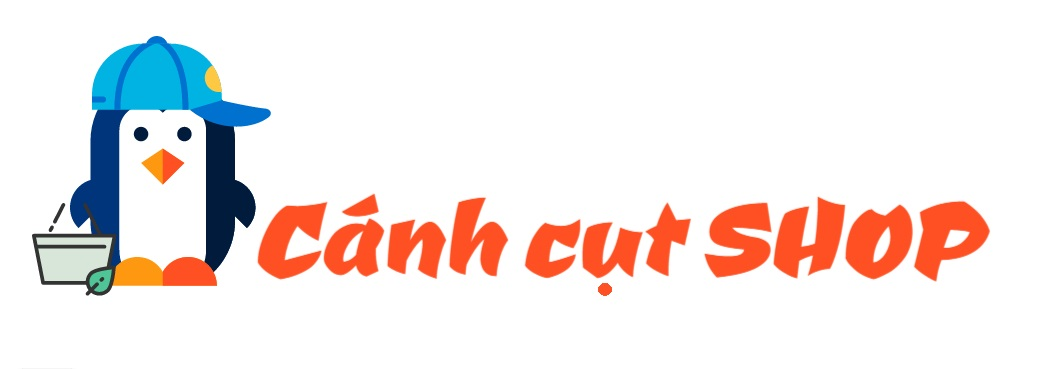
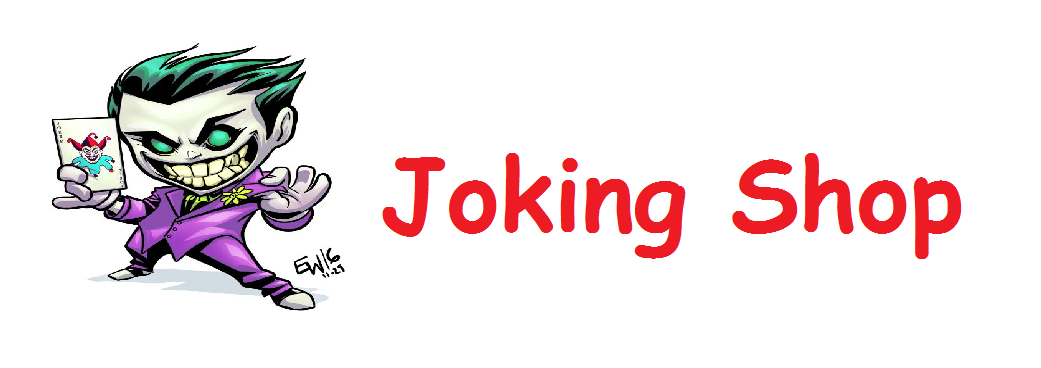
new version

Changed region(s): [[0.0307, 0.0897, 0.9529, 0.8668]]

diff --git a/docs/index.html b/docs/index.html
@@ -1,14 +1,22 @@
-<!doctype html>
+<!doctype html>
 <html>
 <head>
 	<meta charset="utf-8">
-	<title>Cánh cụt shop</title>
+	<title>Joking Shop</title>
 	<link rel="stylesheet" href="assets/css/bootstrap.min.css"/>
 	<link rel="stylesheet" href="assets/css/custom.css"/>
 	<link href="https://fonts.googleapis.com/css?family=Sriracha" rel="stylesheet">
 	<link href="https://fonts.googleapis.com/css?family=Lobster" rel="stylesheet">
 	<link href="https://fonts.googleapis.com/css?family=Slabo+27px" rel="stylesheet">
 	<link href="https://fonts.googleapis.com/css?family=Oswald" rel="stylesheet">
+	<style>
+   	 .footer {
+ 	 margin-top:30px;
+ 	 padding: 1rem;
+ 	 background-color: #efefef;
+ 	 text-align: center;
+}
+    </style>
 </head>
 <body>
 	<!-- TOP COVER -->
@@ -57,7 +65,7 @@
 			<center>
 				<span style="font-size:30px;
 				font-family: 'Sriracha', cursive;">
-				<marquee behavior="scroll" direction="left">Chào mừng bạn đến với Cánh cụt SHOP !!! </marquee>
+				<marquee behavior="scroll" direction="left">Chào mừng bạn đến với Joking Shop !!! </marquee>
 			</span>
 		</center>
 	</div>
@@ -870,7 +878,7 @@
 	</div>
 </div>
 </div>
-
+<div class="footer">SĐT liên hệ: 01629928829 (Bố Tuấn đẹp trai).</div>
 <!-- -->
 
 <script type="text/javascript" src="assets/js/jquery.min.js"></script>

diff --git a/index.html b/index.html
@@ -1,14 +1,22 @@
-<!doctype html>
+<!doctype html>
 <html>
 <head>
 	<meta charset="utf-8">
-	<title>Cánh cụt shop</title>
+	<title>Joking Shop</title>
 	<link rel="stylesheet" href="assets/css/bootstrap.min.css"/>
 	<link rel="stylesheet" href="assets/css/custom.css"/>
 	<link href="https://fonts.googleapis.com/css?family=Sriracha" rel="stylesheet">
 	<link href="https://fonts.googleapis.com/css?family=Lobster" rel="stylesheet">
 	<link href="https://fonts.googleapis.com/css?family=Slabo+27px" rel="stylesheet">
 	<link href="https://fonts.googleapis.com/css?family=Oswald" rel="stylesheet">
+	<style>
+   	 .footer {
+ 	 margin-top:30px;
+ 	 padding: 1rem;
+ 	 background-color: #efefef;
+ 	 text-align: center;
+}
+    </style>
 </head>
 <body>
 	<!-- TOP COVER -->
@@ -57,7 +65,7 @@
 			<center>
 				<span style="font-size:30px;
 				font-family: 'Sriracha', cursive;">
-				<marquee behavior="scroll" direction="left">Chào mừng bạn đến với Cánh cụt SHOP !!! </marquee>
+				<marquee behavior="scroll" direction="left">Chào mừng bạn đến với Joking Shop !!! </marquee>
 			</span>
 		</center>
 	</div>
@@ -870,7 +878,7 @@
 	</div>
 </div>
 </div>
-
+<div class="footer">SĐT liên hệ: 01629928829 (Bố Tuấn đẹp trai).</div>
 <!-- -->
 
 <script type="text/javascript" src="assets/js/jquery.min.js"></script>
